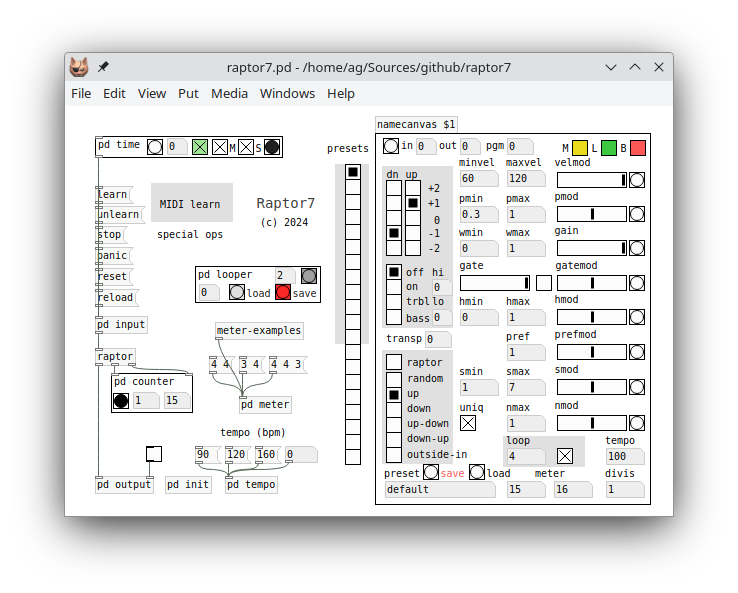
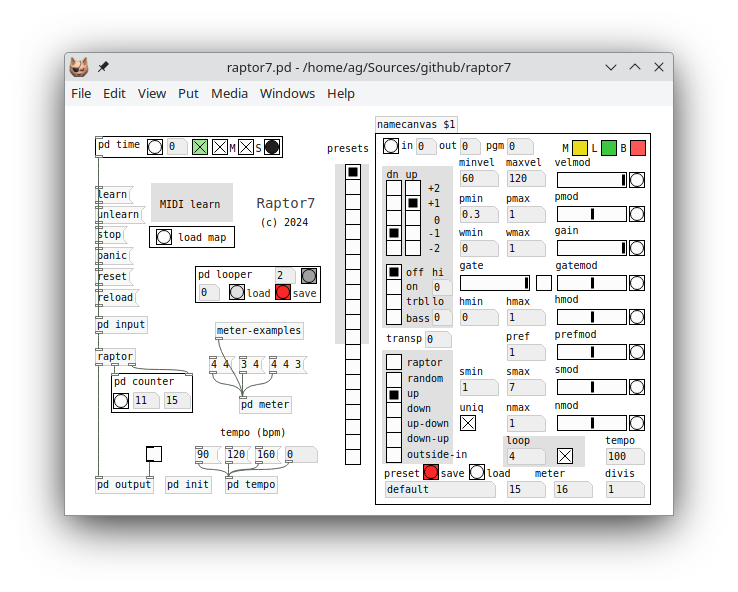
Add MIDI map loading.
This adds a 'load map' button to the main patch, beneath the MIDI learn
canvas rectangle. The button pops up a file open dialog in order to load
MIDI map files and merge their bindings into the current MIDI map. Thus
loading the custom MIDI maps accompanying any of the supported
controllers is now as easy as pie.

diff --git a/README.md b/README.md
@@ -135,25 +135,33 @@ You can also first operate the control in the patch and then the MIDI control, i
 
 The learned MIDI binding will be in effect immediately, in *all* running Raptor instances. It will also be stored in the midi.map file in the data directory, from where all bindings will be reloaded next time you fire up Raptor. Note that while it's possible to map different MIDI controls to the same Raptor parameter, at present you can't have a MIDI control affect multiple parameters at once (no macro controls, sorry!).
 
-Also note that if you're running multiple Raptor instances, normally MIDI controls will affect them all, so their parameters will change in lockstep. If you want to operate a single Raptor instance instead, you can click the unlabeled button in the top left corner of the panel. The button will turn blue to indicate that only this instance is now receiving the control data. You can switch instances at any time, and clicking the blue button again will return the Raptor controls to omni mode, in which all instances receive the control data.
+Also note that if you're running multiple Raptor instances, normally MIDI controls will affect them all, so their parameters will change in lockstep. If you want to operate a single Raptor instance instead, you can click the unlabeled button in the top left corner of the panel. The button will turn blue to indicate that the instance was selected and is now receiving the control data. At most one instance can be selected at any one time, but you can switch instances at any time, and clicking the blue button in the selected instance again will return the Raptor controls to "omni" mode, in which all instances receive the control data.
+
+#### Saving and Loading MIDI Maps
+
+Raptor needs no special operation for *saving* the MIDI map after changes, since this happens automatically. However, once you're done with a specific set of mappings, you may want to store away the midi.map file in the data directory. There's no special operation for this task, but you can accomplish this quite easily with your file manager by copying the data/midi.map file to a new name or location. By these means, you have a backup copy in case you lose your current map, which can also be shared with others if wanted.
+
+Raptor has an operation for *loading* MIDI map files, however, so that you can merge existing map files from your own backup copies or MIDI maps shared by other people into your current MIDI map. Just click the `load map` button beneath the "MIDI Learn" label in the main patch. This opens a file dialog in the data subdirectory, from where you can navigate to any location on your hard disk and open any .map file that you have there. The operation will provide some feedback in the console window about how many bindings were added, and if there were any conflicts where an existing binding had to be modified.
 
 #### Special Device Support
 
-Beyond MIDI learn, Raptor also offers special support for some controllers, as detailed below. This typically includes some hard-wired bindings to select Raptor instances for receiving control data, as well as a custom MIDI map file. It is generally assumed that these devices are in their factory state and are connected to Pd's *second* MIDI input port, so that they don't interfere with MIDI data from your primary input device on the first MIDI input, where you'd typically connect your MIDI keyboard, pad controller, etc. (Note that, in contrast, the MIDI learn facility can map MIDI controls no matter what the input port and MIDI channel is, thus it will work with your primary input device as well as all devices on secondary inputs.)
+Beyond MIDI learn, Raptor also offers special support for some controllers, as detailed below. This typically includes some hard-wired bindings to select Raptor instances for receiving control data, as well as a custom MIDI map file. It is generally assumed that these devices are in their factory state and are connected to Pd's *second* MIDI input port, so that they don't interfere with MIDI data from your primary input device on the first MIDI input, where you'd typically connect your MIDI keyboard, pad controller, etc. (Note that, in contrast, the MIDI learn facility can pick up MIDI data from any input port and MIDI channel, thus it will work with your primary input device as well as all devices on secondary inputs.)
 
-Amazingly, the special device support included in Raptor right now all works together without any conflicts, so we have them all enabled by default. But if the bindings interfere with your own controllers or if you're worried about the overhead for devices that you don't have, you can easily turn them on and off using the corresponding variables at the beginning of the raptor.pd_lua source file in the lib subdirectory.
+Amazingly, the special device support included in Raptor right now all works together without any conflicts, so we have them all enabled by default. But if the bindings interfere with your own controllers or if you're worried about the overhead for devices that you don't have, you can easily turn them off using the corresponding variables at the beginning of the raptor.pd_lua source file in the lib subdirectory.
+
+All devices that are supported right now come with corresponding MIDI maps, which you should load using the `load map` button described above, if you want the full experience. (Otherwise most device implementations only offer a few essential bindings, typically stuff that can't be mapped using MIDI learn.)
 
 #### Novation Launch Control XL
 
 The [Novation Launch Control XL][] is a popular mixer-style controller with lots of knobs and faders, which makes for a nice Raptor control surface, so Raptor has special support for it. To make this work, the Launch Control XL must be set to the first factory preset, and you need to connect it to Pd's second MIDI input port.
 
-The Launch Control XL support consists of two parts. First, there's a launchcontrol.map file in the data directory with ready-made MIDI bindings for the device. To use it, just copy that file to midi.map and you should be set. Check the comments at the beginning of the file for information on the bindings.
+The Launch Control XL support consists of two parts. First, there's a launchcontrol.map file in the data directory with ready-made MIDI bindings for the device that you can load. Check the comments at the beginning of the file for information on the bindings.
 
 Second, Raptor includes some hard-wired MIDI bindings for the Launch Control which let you switch the target Raptor instance for MIDI control easily and quickly. To do this, press (and hold) the "Device Hold" button, while you push one of the "Device Select" (left/right) buttons to cycle through the Raptor instances, or the "Device Bank" buttons labeled 1-8 to directly change to the corresponding instance (or switch back to "omni" if the given instance was already selected).
 
 #### AKAI Professional MIDIMIX
 
-The [AKAI MIDIMIX][] is another popular (and more budget-friendly) controller which has a very similar layout to the Launch Control XL. Raptor includes support for this device as well, consisting of a MIDI mapping and some hard-wired bindings for switching Raptor instances. These assume that the device uses the factory configuration. A description of the mapping can be found in the midimix.map file in the data directory. To use this mapping, copy the file to midi.map and make sure that the MIDIMIX is connected to Pd's second MIDI input.
+The [AKAI MIDIMIX][] is another popular (and more budget-friendly) controller which has a very similar layout to the Launch Control XL. Raptor includes support for this device as well, consisting of a MIDI mapping and some hard-wired bindings for switching Raptor instances. These assume that the device uses the factory configuration. A description of the mapping can be found in the midimix.map file in the data directory. To use this mapping, load the map file and make sure that the MIDIMIX is connected to Pd's second MIDI input.
 
 Note that this mapping is a bit quirky because the MIDIMIX has less buttons. In particular, it lacks a dedicated device select button, so the SOLO button is used as a kind of shift button for selecting Raptor instances instead. To do this, press (and hold) the SOLO button, while you push the BANK LEFT and RIGHT buttons to cycle through the Raptor instances, or the REC ARM buttons labeled 1-8 to directly change to the corresponding instance (or switch back to "omni" if the given instance was already selected).
 
@@ -163,13 +171,15 @@ The [Nektar PACER][] is a programmable foot controller, which keeps your hands f
 
 The hard-wired bindings feature Raptor instance switching (stomp 1+2) as well as preset switching (stomp 3+4), while the included MIDI map binds some useful extra functions such as play/loop on stomp 5+6 and gain/gate on the expression pedals; please check the data/pacer.map file for details.
 
-To use this mapping, copy pacer.map to midi.map and make sure that you have selected the D3 KBDTL factory preset on the PACER, and that the controller is connected to Pd's second MIDI input.
+To use this mapping, load pacer.map and make sure that you have selected the D3 KBDTL factory preset on the PACER, and that the controller is connected to Pd's second MIDI input.
 
-NOTE: Our current mapping is pretty basic by design, so that it doesn't require any custom PACER preset; the D3 KBDTL factory preset works best for that purpose. But you can easily edit the factory preset to beef it up a little (or a lot), using François Georgy's excellent online [PACER editor](https://studiocode.dev/pacer-editor).
+NOTE: Our current mapping is pretty basic by design, so that it doesn't require any custom PACER preset. The D3 KBDTL factory preset works best for that purpose. But you can easily edit the factory preset to beef it up a little (or a lot), using François Georgy's excellent online [PACER editor](https://studiocode.dev/pacer-editor).
 
 #### Hercules DJ Control
 
-[Hercules](https://www.hercules.com) offers an entire series of DJ controllers which can be used with Raptor. True to the nature of this very interesting class of devices, the Raptor implementation supports two decks and offers some fancy performance controls that are not readily available on the other control surfaces. However, I only have the Inpulse 200 MK2  and Inpulse 500 available for testing at the time of this writing, thus support for these devices is still considered a bit experimental, and proper documentation of the many features of the Raptor implementation still needs to be written. But there's a fairly comprehensive overview in the comments at the beginning of the MIDI mapping in data/djcontrol.map, so please check this file for details.
+[Hercules](https://www.hercules.com) offers an entire series of DJ controllers which can be used with Raptor. True to the nature of this very interesting class of devices, the Raptor implementation supports two decks and offers some fancy performance controls that are not readily available on the other control surfaces. This is the most comprehensive device support to date, which ties in deeply with Raptor's internal interfaces, and also includes device feedback (flashing blinkenlights galore) if you connect the controller to Pd's second MIDI output port.
+
+However, because the Raptor implementation is so complicated, and I only have the Inpulse 200 MK2 and Inpulse 500 available for testing right now, support for these devices is still considered a bit experimental. Also, proper documentation of its many features still needs to be written. There's a fairly comprehensive overview in the comment section at the beginning of the MIDI map in data/djcontrol.map, though, so please check that file for details if you want to give it a go.
 
 ## Quirks and Limitations
 
@@ -191,7 +201,7 @@ Overdubbing and more advanced loop editing capabilities would be nice to have; b
 
 In a similar vein, Raptor's MIDI learn facility is also fairly basic. It's only possible to map MIDI CC and note messages at present. Having support for other kinds of messages such as aftertouch could be useful; we might add this in a future update. Also, there's no support for macro controls. That's unlikely to change in the near future, as it would complicate usage and require some GUI integration in order to adjust the macro value mapping.
 
-Special support is already available for some devices, but it's always good to have more, and there are plenty of awesome MIDI controllers on the market these days. Thus, if anyone can contribute MIDI maps or special support for other devices (or alternative bindings for the existing ones), please submit a [pull request][]!
+Special support is already available for some devices, but it's always good to have more. There is an abundance of awesome MIDI devices on the market these days which make for good Raptor controllers. Obviously, I can't support more than a tiny fraction of them myself. Thus, please share your MIDI maps or special support for other devices (or alternative bindings for the existing ones) in any way that's convenient for you, and let me know (or, preferably, please submit a [pull request][])!
 
 
 [ICMC 2006 paper]: https://github.com/agraef/raptor7/blob/main/scale.pdf
